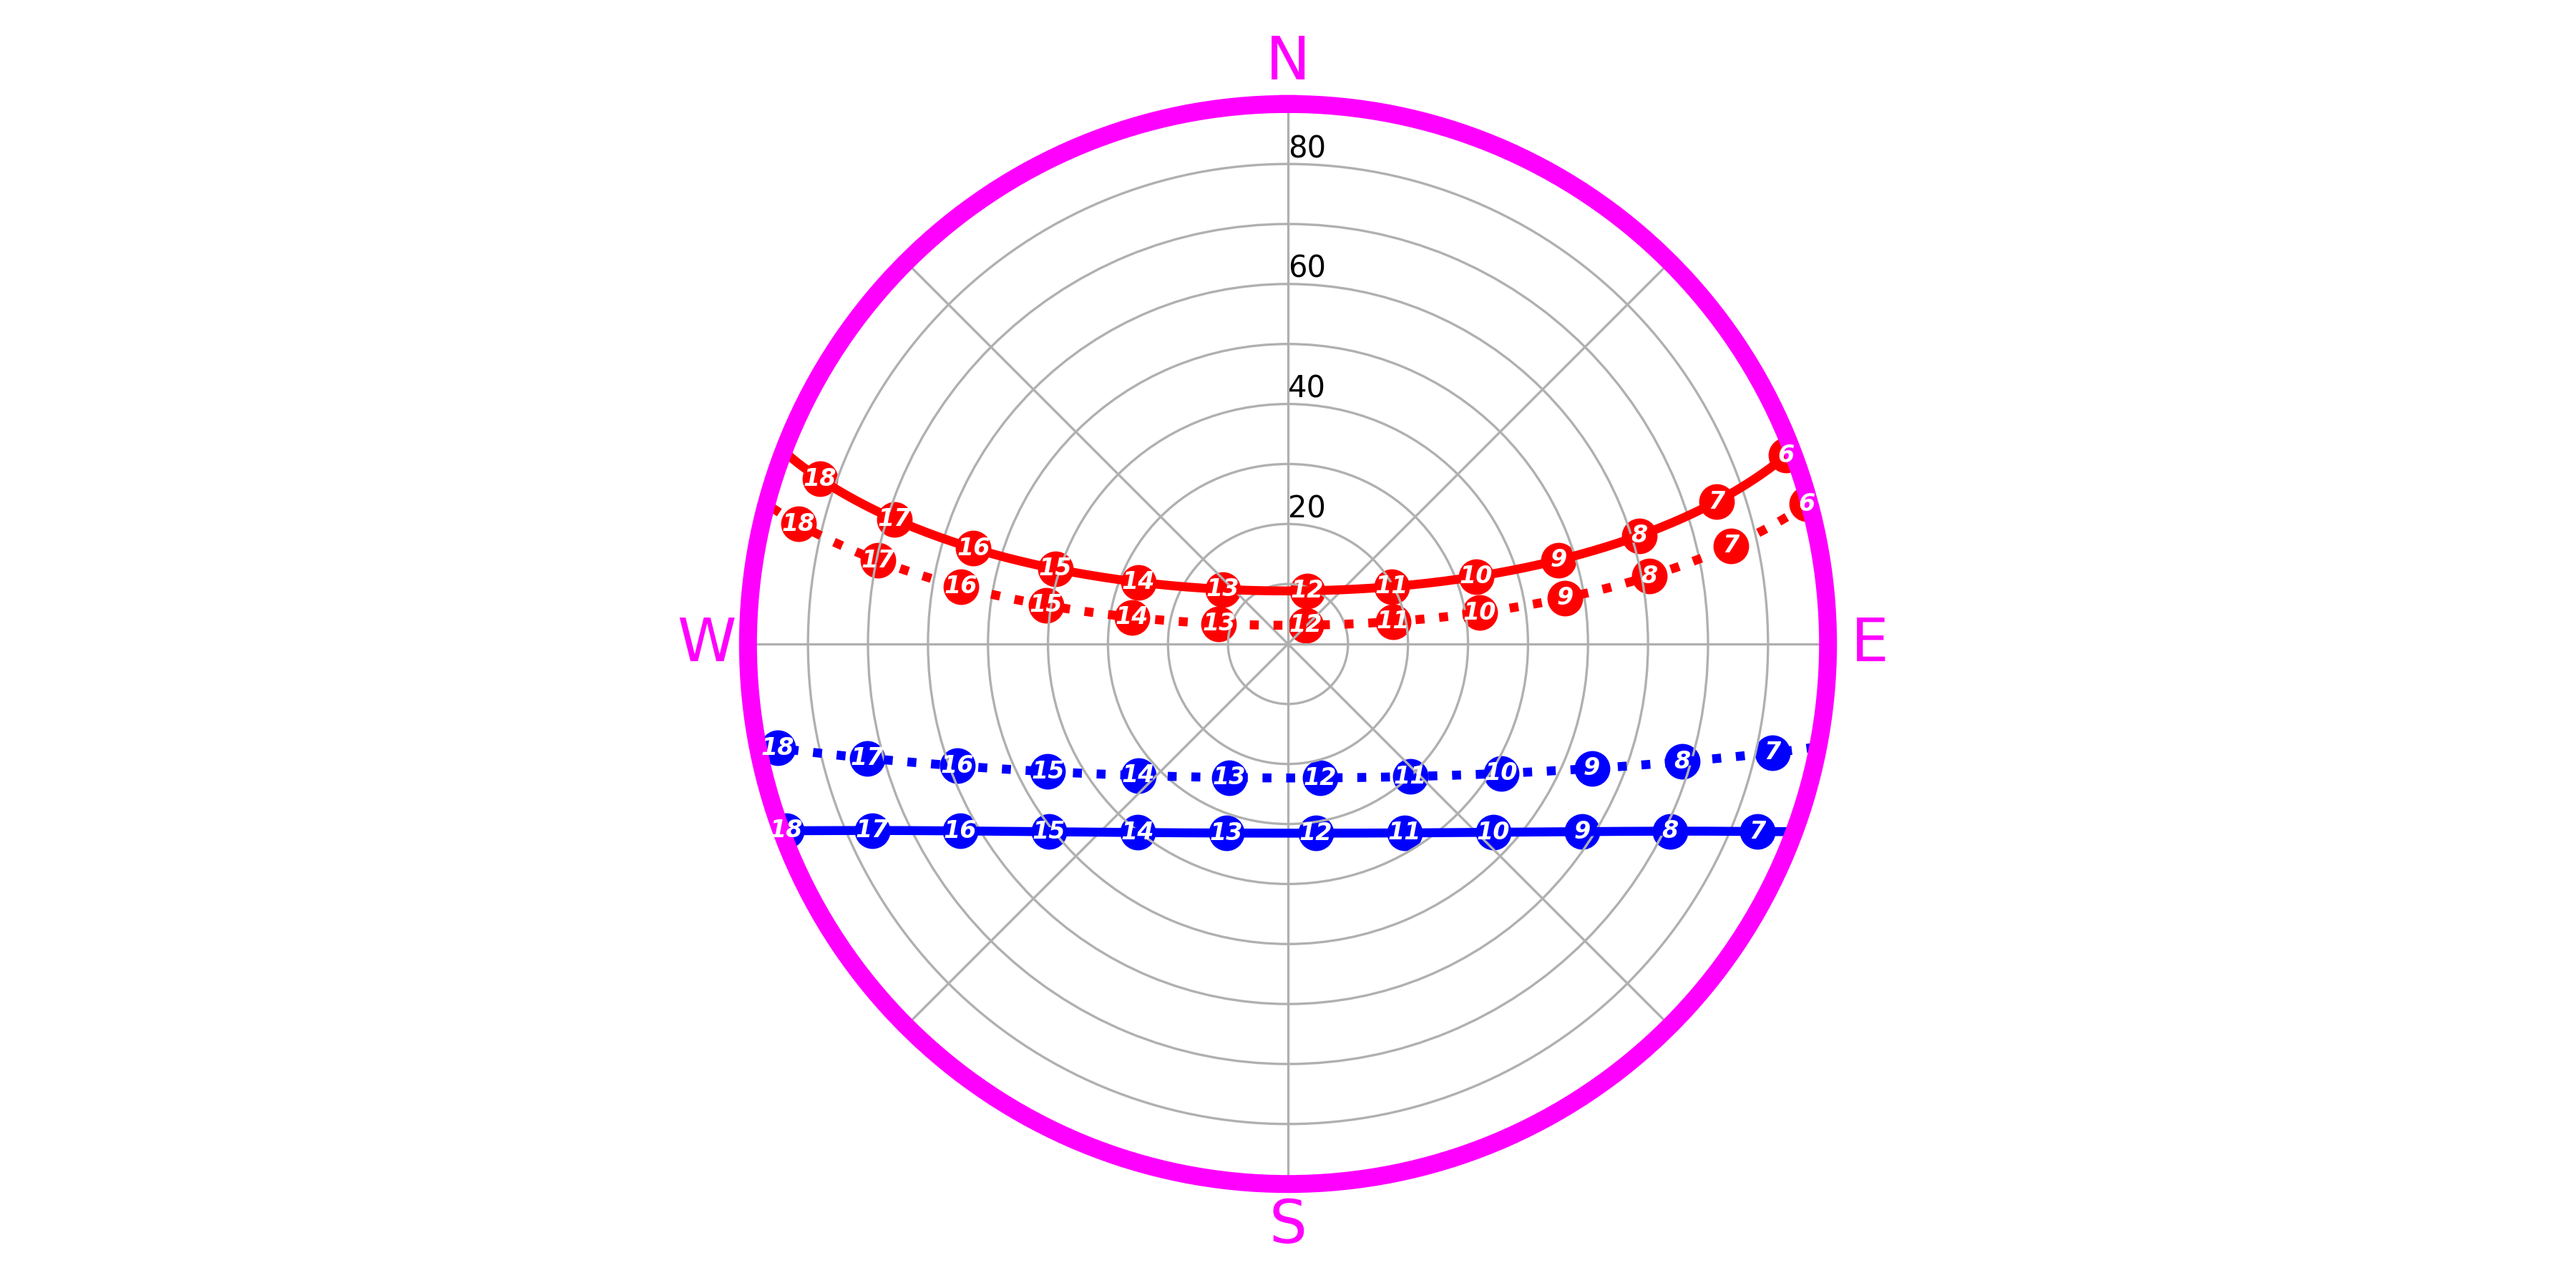
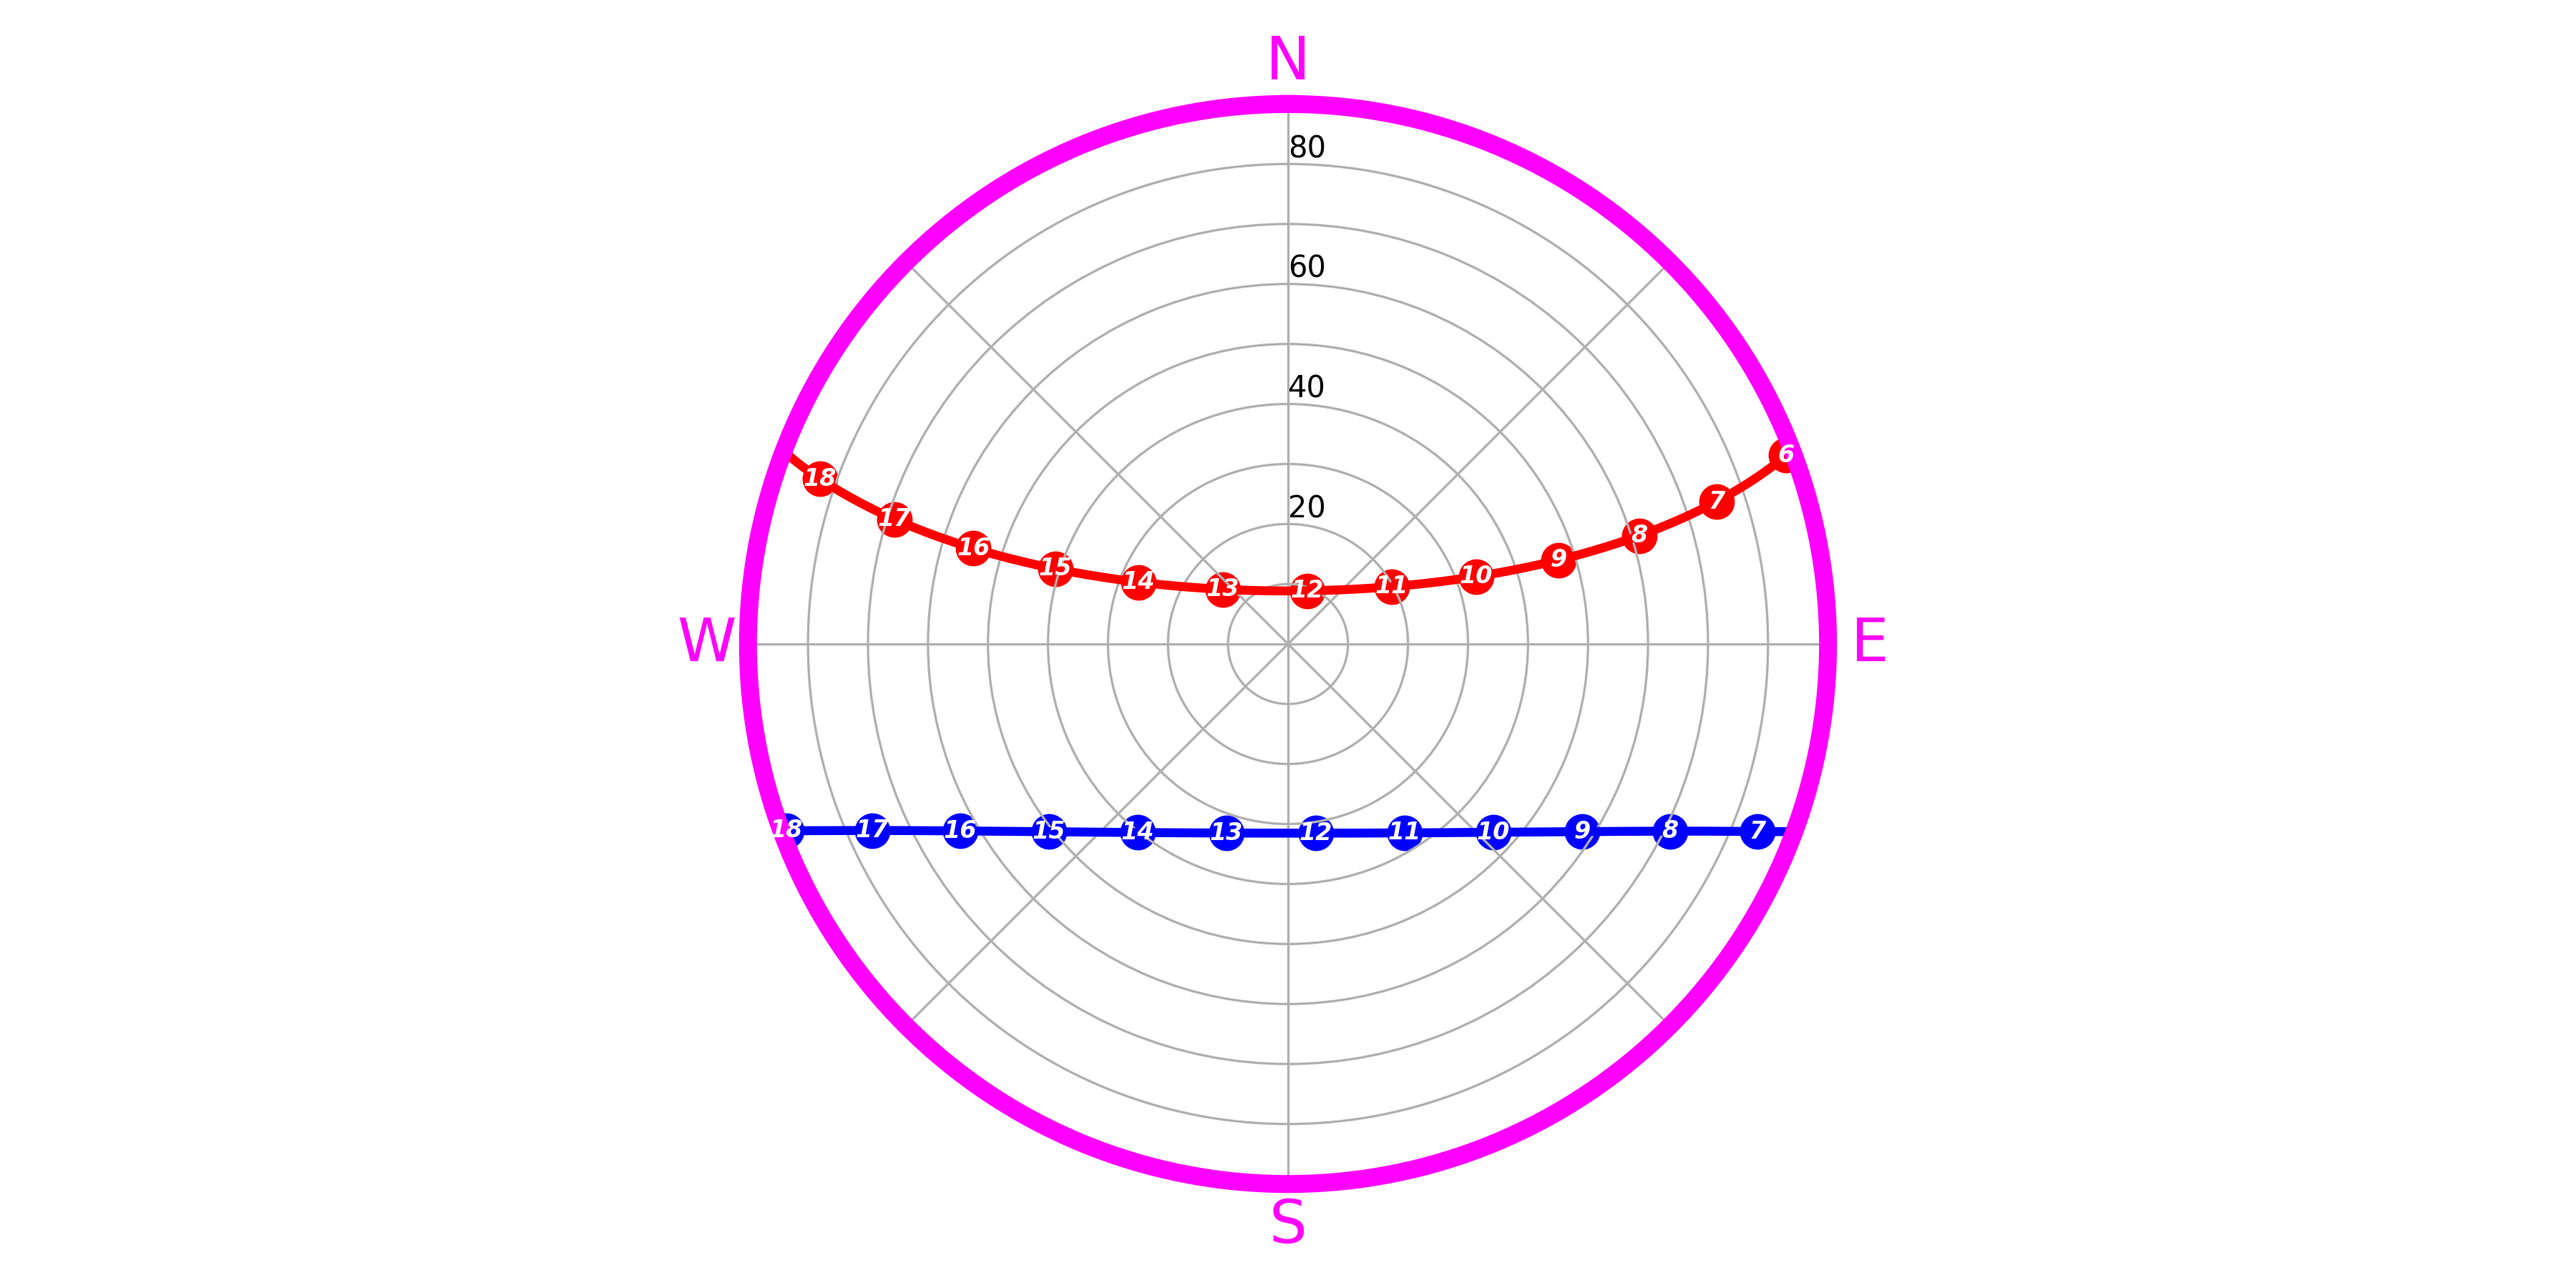
remove one of the lines from the solar path plot

diff --git a/heat_scan/Djibouti/solar_path/view_hemisphere_Djibouti.py b/heat_scan/Djibouti/solar_path/view_hemisphere_Djibouti.py
@@ -13,7 +13,8 @@ matplotlib.use('TkAgg')
 
 save_path = os.getcwd().replace('\\', '/') + '/'
 
-background = 'light'
+# background = 'light'
+background = 'dark'
 
 tz = 'Africa/Djibouti'
 lat, lon = 11.588016341753459, 43.14789764878434
@@ -34,11 +35,16 @@ fig = plt.figure(figsize=(12, 6))
 # ax = plt.subplot(1, 1, 1, projection='polar')
 ax = fig.add_subplot(1, 1, 1, projection='polar')
 
-datesOfInterest = ['2000-02-21', '2007-01-21', '1993-07-21', '2015-08-13']
-dateLabels = ['Average winter climate (future)', 'Average winter climate (present)', 'Average summer climate (present)',
-              'Average summer climate (future)']
-datecolors = ['blue', 'blue', 'red', 'red']
-datelinetype = [':', '-', '-', ':']
+# datesOfInterest = ['2000-02-21', '2007-01-21', '1993-07-21', '2015-08-13']
+# dateLabels = ['Average winter climate (future)', 'Average winter climate (present)', 'Average summer climate (present)',
+#               'Average summer climate (future)']
+# datecolors = ['blue', 'blue', 'red', 'red']
+# datelinetype = [':', '-', '-', ':']
+
+datesOfInterest = ['2007-01-21', '1993-07-21']
+dateLabels = ['Average winter climate (present)', 'Average summer climate (present)']
+datecolors = ['blue', 'red']
+datelinetype = ['-', '-']
 
 # draw individual days
 for date in pd.to_datetime(datesOfInterest):
